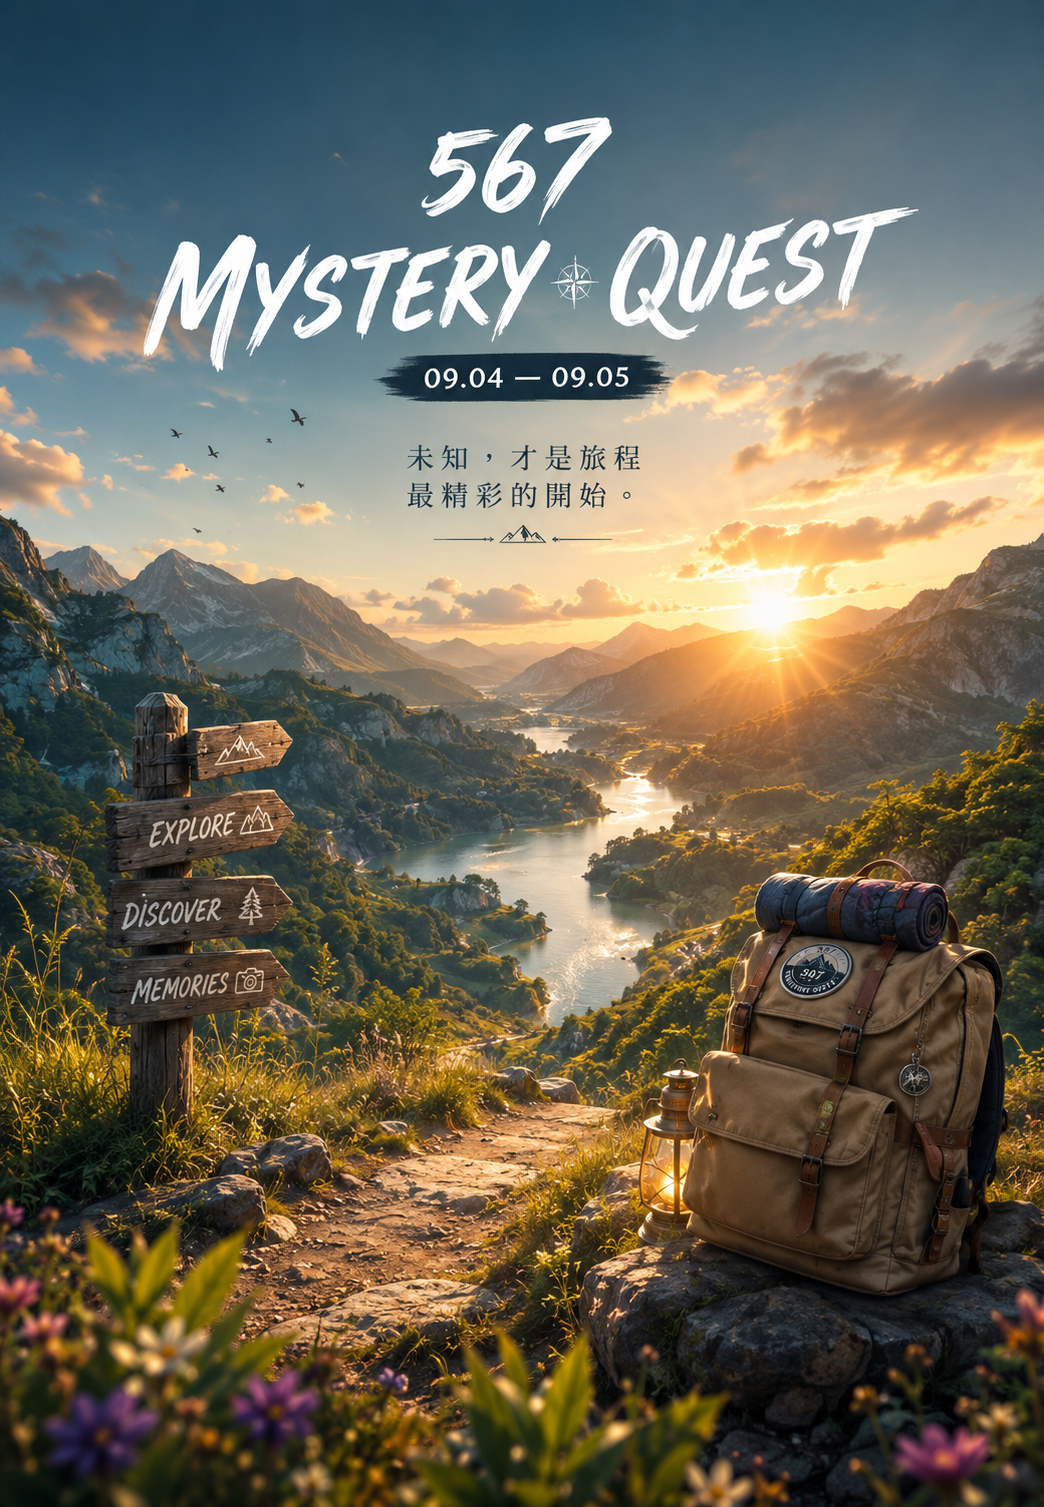
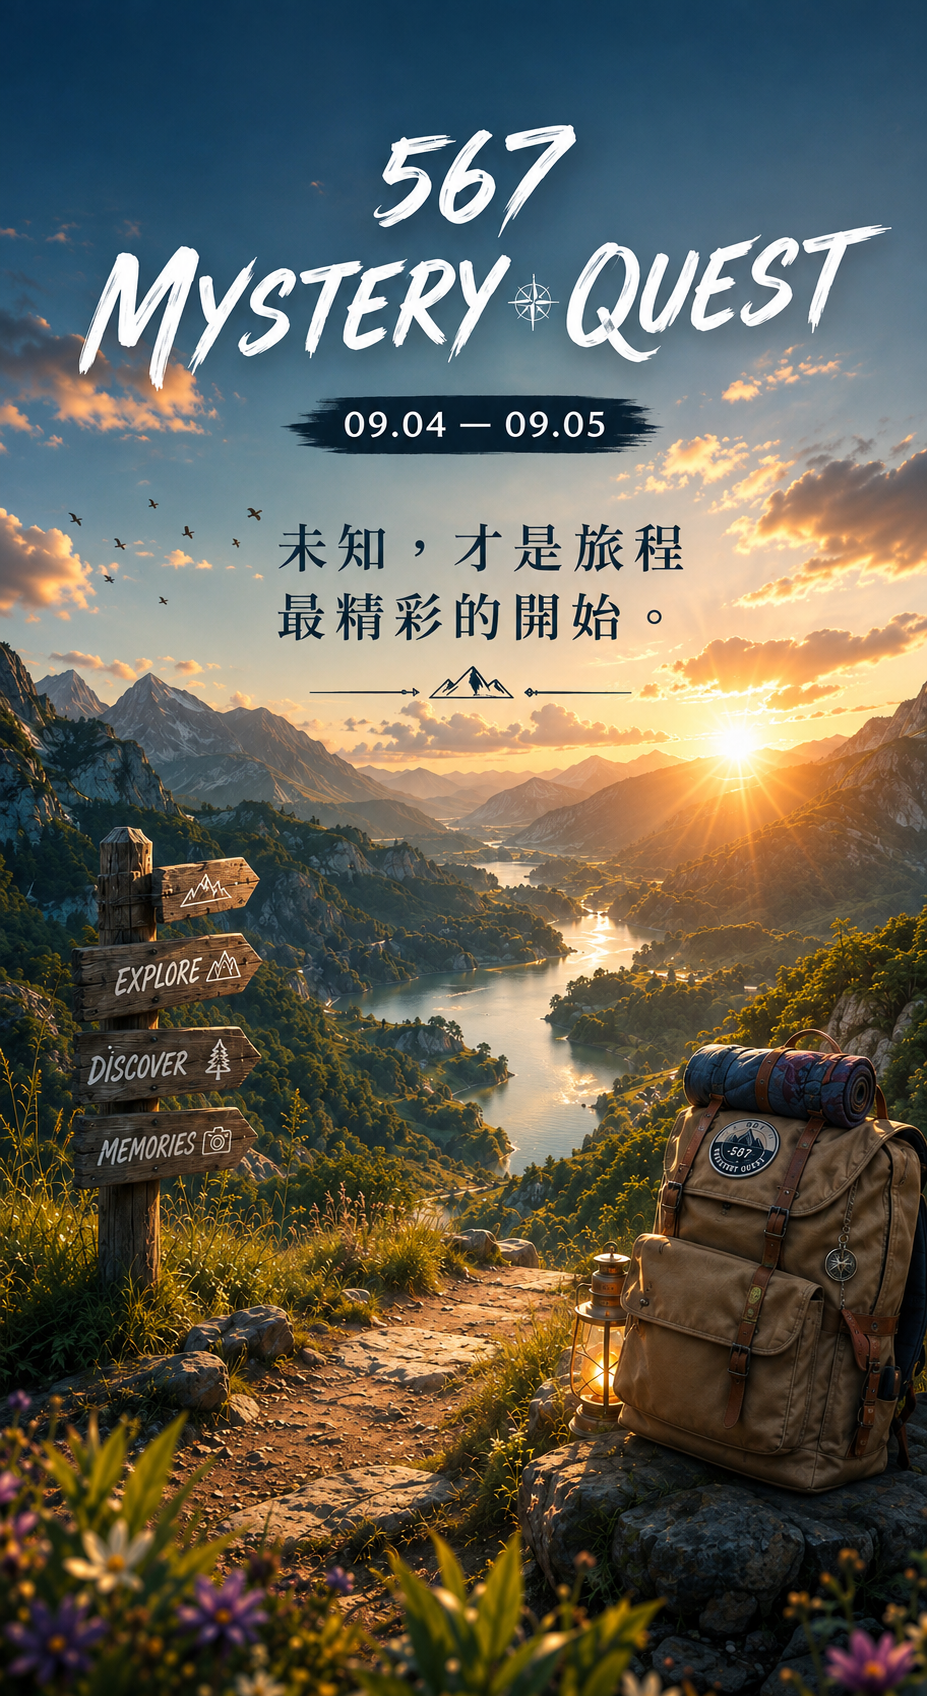
Add files via upload

diff --git a/style.css b/style.css
@@ -129,14 +129,14 @@ img { -webkit-user-drag:none; user-drag:none; pointer-events:none; }
 #home.tab-page.active { display:flex; flex-direction:column; }
 
 .hero-photo {
-  flex:1 1 auto; min-height:0; overflow:hidden;
+  position:relative; flex:1 1 auto; min-height:0; overflow:hidden;
   border-radius:26px; background:var(--ink);
   box-shadow:0 14px 30px rgba(24,56,46,.2);
 }
-.hero-photo img { width:100%; height:100%; display:block; object-fit:cover; object-position:center; }
+.hero-photo img { position:absolute; inset:0; width:100%; height:100%; display:block; object-fit:cover; object-position:center; }
 
 .clue-panel {
-  width:100%; flex:none; margin:0; padding:8px 11px;
+  width:100%; min-height:76px; flex:none; margin:0; padding:11px 13px;
   display:flex; align-items:center; gap:10px;
   border:1px solid rgba(47,78,66,.1); border-radius:17px;
   color:var(--ink); text-align:left; cursor:pointer;
@@ -144,7 +144,7 @@ img { -webkit-user-drag:none; user-drag:none; pointer-events:none; }
   box-shadow:0 7px 20px rgba(39,67,57,.07);
 }
 .clue-spark {
-  width:30px; height:30px; flex:none;
+  width:38px; height:38px; flex:none;
   display:grid; place-items:center; border-radius:10px;
   color:#b58542; background:#f0e4c9; font-size:14px;
 }
@@ -157,7 +157,7 @@ img { -webkit-user-drag:none; user-drag:none; pointer-events:none; }
   align-items:end; column-gap:8px;
 }
 .secret-progress p small { grid-column:1; grid-row:1; margin:0 0 1px; color:#a4753c; font-size:7px; font-weight:900; letter-spacing:.15em; }
-.secret-progress p b    { grid-column:1; grid-row:2; font-size:12.5px; line-height:1.15; }
+.secret-progress p b    { grid-column:1; grid-row:2; font-size:15px; line-height:1.15; letter-spacing:.01em; }
 .secret-progress p em   { grid-column:2; grid-row:1/3; align-self:center; color:#7c8981; font-size:8px; font-style:normal; white-space:nowrap; }
 
 .progress-dots { display:grid; grid-template-columns:repeat(8,1fr); gap:4px; margin-top:6px; }
@@ -254,7 +254,7 @@ img { -webkit-user-drag:none; user-drag:none; pointer-events:none; }
 /* --------------------------------------------------------------------------
    8. 查詢頁 — 姓名搜尋 + 個人行程卡
    -------------------------------------------------------------------------- */
-#group.content { padding:4px 15px 8px; gap:10px; }
+#group.content { padding:58px 15px 18px; gap:10px; }
 .group-intro { padding-bottom:0; }
 
 .name-search {
@@ -275,10 +275,10 @@ img { -webkit-user-drag:none; user-drag:none; pointer-events:none; }
 
 .query-message { margin-top:11px; padding:12px 14px; border-radius:13px; color:#8c5e37; background:#fae9d9; font-size:10px; line-height:1.5; }
 
-.query-result { flex:1 1 auto; min-height:0; display:flex; flex-direction:column; gap:8px; animation:rise .4s ease both; }
+.query-result { animation:rise .4s ease both; }
 
 .personal-trip-card {
-  flex:1 1 auto; min-height:0; display:flex; flex-direction:column; overflow:hidden;
+  display:block; overflow:hidden;
   border-radius:25px; background:var(--paper); box-shadow:0 15px 38px rgba(39,67,57,.12);
 }
 .result-welcome {
@@ -298,17 +298,22 @@ img { -webkit-user-drag:none; user-drag:none; pointer-events:none; }
 .result-card > b      { display:block; margin:4px 0 12px; font-family:Georgia,"Songti TC",serif; font-size:19px; }
 .result-card p        { margin:0 0 2px; color:#849087; font-size:8px; }
 .result-card > strong { font-size:13px; }
-.result-card > em     { display:block; margin-top:6px; color:#b4803e; font-size:8px; font-style:normal; }
+.result-card > em     { display:table; margin-top:8px; padding:4px 7px; border-radius:999px; color:#8b622d; background:#f4e4c5; font-size:8px; font-weight:800; font-style:normal; }
 .car-result  { border-top:3px solid #6f9380; }
 .room-result { border-top:3px solid #78aeb1; }
 
-.roommates-card { flex:1 1 auto; min-height:0; overflow:hidden; margin:8px 10px 10px; padding:13px 14px; border-radius:18px; background:#e9f0e9; }
+.roommates-card { margin:8px 10px 10px; padding:14px; border-radius:18px; background:#e9f0e9; }
 .roommates-card > small { color:#829189; font-size:7px; font-weight:800; letter-spacing:.18em; }
 .roommates-card h2      { margin:2px 0 9px; font-size:14px; }
 .roommates-card div     { display:flex; flex-wrap:wrap; gap:7px; }
 .roommates-card div span { padding:7px 11px; border-radius:999px; color:#405d4e; background:#fff; font-size:10px; box-shadow:0 3px 9px rgba(39,67,57,.06); }
 
-.search-again { width:100%; flex:none; margin:0; padding:10px; border:1px solid #d2ddd5; border-radius:15px; color:#597062; background:transparent; font-size:10px; font-weight:700; cursor:pointer; }
+.search-again { width:calc(100% - 20px); margin:0 10px 10px; padding:11px; border:1px solid #d2ddd5; border-radius:14px; color:#597062; background:#fbfcf9; font-size:10px; font-weight:800; cursor:pointer; }
+#group.result-mode .group-intro { padding:0 2px 9px; }
+#group.result-mode .group-intro .eyebrow,#group.result-mode .group-intro h1 br,#group.result-mode .group-intro p:last-child { display:none; }
+#group.result-mode .group-intro h1 { font-size:0; }
+#group.result-mode .group-intro h1:before { content:"我的旅程資料"; font-family:"Songti TC",serif; font-size:20px; color:var(--ink); }
+body.query-mode .build-tag { opacity:0; }
 
 /* --------------------------------------------------------------------------
    9. 底部導覽列 — 對齊 CMF2026 實測規格（齊平置底、無圓角）

diff --git a/index.html b/index.html
@@ -26,12 +26,12 @@
   <link rel="apple-touch-icon" sizes="180x180" href="apple-touch-icon.png">
   <link rel="mask-icon" href="icons/safari-pinned-tab.svg" color="#17352c">
   <link rel="manifest" href="site.webmanifest">
-  <link rel="stylesheet" href="style.css?v=567mystery-v8-20260805">
+  <link rel="stylesheet" href="style.css?v=567mystery-v10-20260805">
 </head>
 <body>
   <main class="app-shell">
     <div class="ambient ambient-one"></div><div class="ambient ambient-two"></div>
-    <header class="topbar"><span class="build-tag" id="build-tag">v8-20260805</span><button class="refresh-button" id="refresh-button" type="button" aria-label="立即更新" title="立即更新">↻</button></header>
+    <header class="topbar"><span class="build-tag" id="build-tag">v10-20260805</span><button class="refresh-button" id="refresh-button" type="button" aria-label="立即更新" title="立即更新">↻</button></header>
 
     <section class="content tab-page active" id="home">
       <div class="hero-photo"><img src="assets/home-mystery-quest.png" alt="567 Mystery Quest，未知才是旅程最精彩的開始"></div>
@@ -70,8 +70,8 @@
           <article class="result-card car-result"><small>搭乘車輛</small><b id="result-car"></b><p>車長</p><strong id="result-leader"></strong><em id="result-leader-note"></em></article>
           <article class="result-card room-result"><small>住宿房間</small><b id="result-room"></b><p>房型</p><strong id="result-room-type"></strong></article>
         </div>
-        <article class="roommates-card"><small>ROOMMATES</small><h2>今晚的室友</h2><div id="result-roommates"></div></article></div>
-        <button class="search-again" id="search-again" type="button">重新查詢</button>
+        <article class="roommates-card"><small>ROOMMATES</small><h2>今晚的室友</h2><div id="result-roommates"></div></article>
+        <button class="search-again" id="search-again" type="button">重新查詢</button></div>
       </section>
     </section>
 
@@ -82,7 +82,7 @@
     </nav>
   </main>
   <div class="rotate-guard" aria-hidden="true"><div><span>⟳</span><b>請直立使用</b><small>567 神秘小旅行僅支援直式畫面</small></div></div>
-  <script src="app.js?v=567mystery-v8-20260805"></script>
-  <script src="autoupdate.js?v=567mystery-v8-20260805"></script>
+  <script src="app.js?v=567mystery-v10-20260805"></script>
+  <script src="autoupdate.js?v=567mystery-v10-20260805"></script>
 </body>
 </html>

diff --git a/app.js b/app.js
@@ -91,14 +91,16 @@ function showTraveler(traveler) {
   document.getElementById("result-name").textContent = traveler.name;
   document.getElementById("result-car").textContent = `第 ${traveler.carIndex + 1} 車`;
   document.getElementById("result-leader").textContent = traveler.leader;
-  document.getElementById("result-leader-note").textContent = traveler.name === traveler.leader ? "你就是本車車長" : "";
+  document.getElementById("result-leader-note").textContent = traveler.name === traveler.leader ? "★ 本車車長" : "";
   document.getElementById("result-room").textContent = `第 ${traveler.roomIndex + 1} 房`;
   document.getElementById("result-room-type").textContent = traveler.room.type;
   const roommates = traveler.room.people.filter(person => person !== traveler.name);
   document.getElementById("result-roommates").innerHTML = roommates.length ? roommates.map(person => `<span>${person}</span>`).join("") : "<span>此房沒有其他室友</span>";
   document.getElementById("name-search").hidden = true;
   document.getElementById("query-result").hidden = false;
+  document.getElementById("group").classList.add("result-mode");
   document.getElementById("traveler-name").blur();
+  window.scrollTo({top:0,behavior:"smooth"});
 }
 
 document.getElementById("name-search").addEventListener("submit", event => {
@@ -116,6 +118,7 @@ document.getElementById("name-search").addEventListener("submit", event => {
 document.getElementById("search-again").addEventListener("click", () => {
   document.getElementById("query-result").hidden = true;
   document.getElementById("name-search").hidden = false;
+  document.getElementById("group").classList.remove("result-mode");
   const input = document.getElementById("traveler-name");
   input.value = "";
   input.focus();

diff --git a/sw.js b/sw.js
@@ -1,7 +1,7 @@
 /* 567 神秘小旅行 — 離線快取
    改版流程：更新下方 VERSION 字串 → push 到 GitHub → 手機下次開啟自動清舊快取重載。
    （autoupdate.js 會比對這個字串，兩邊必須一致） */
-const VERSION = "567mystery-v8-20260805";
+const VERSION = "567mystery-v10-20260805";
 
 const CORE = [
   "./",

diff --git a/autoupdate.js b/autoupdate.js
@@ -4,7 +4,7 @@
 
    ★ 改版時：這裡的 BUILD 要跟 sw.js 的 VERSION 改成同一個字串。 */
 (() => {
-  const BUILD = "567mystery-v8-20260805";
+  const BUILD = "567mystery-v10-20260805";
 
   const src  = (document.currentScript && document.currentScript.src) || "";
   const root = src.replace(/autoupdate\.js.*$/, "") || "./";
